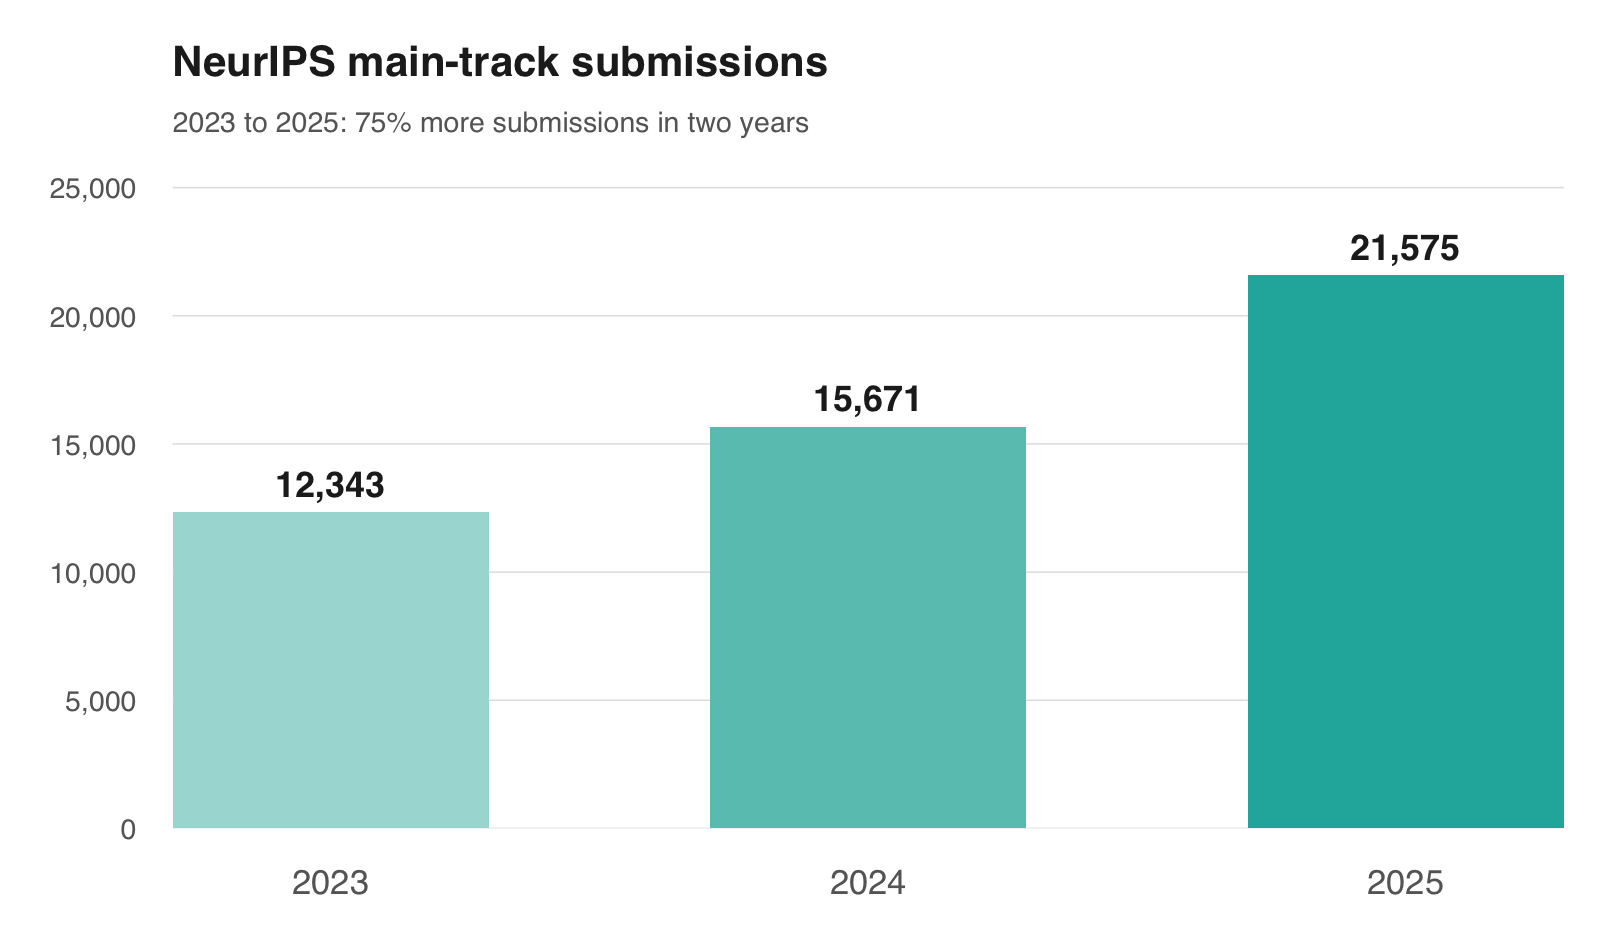
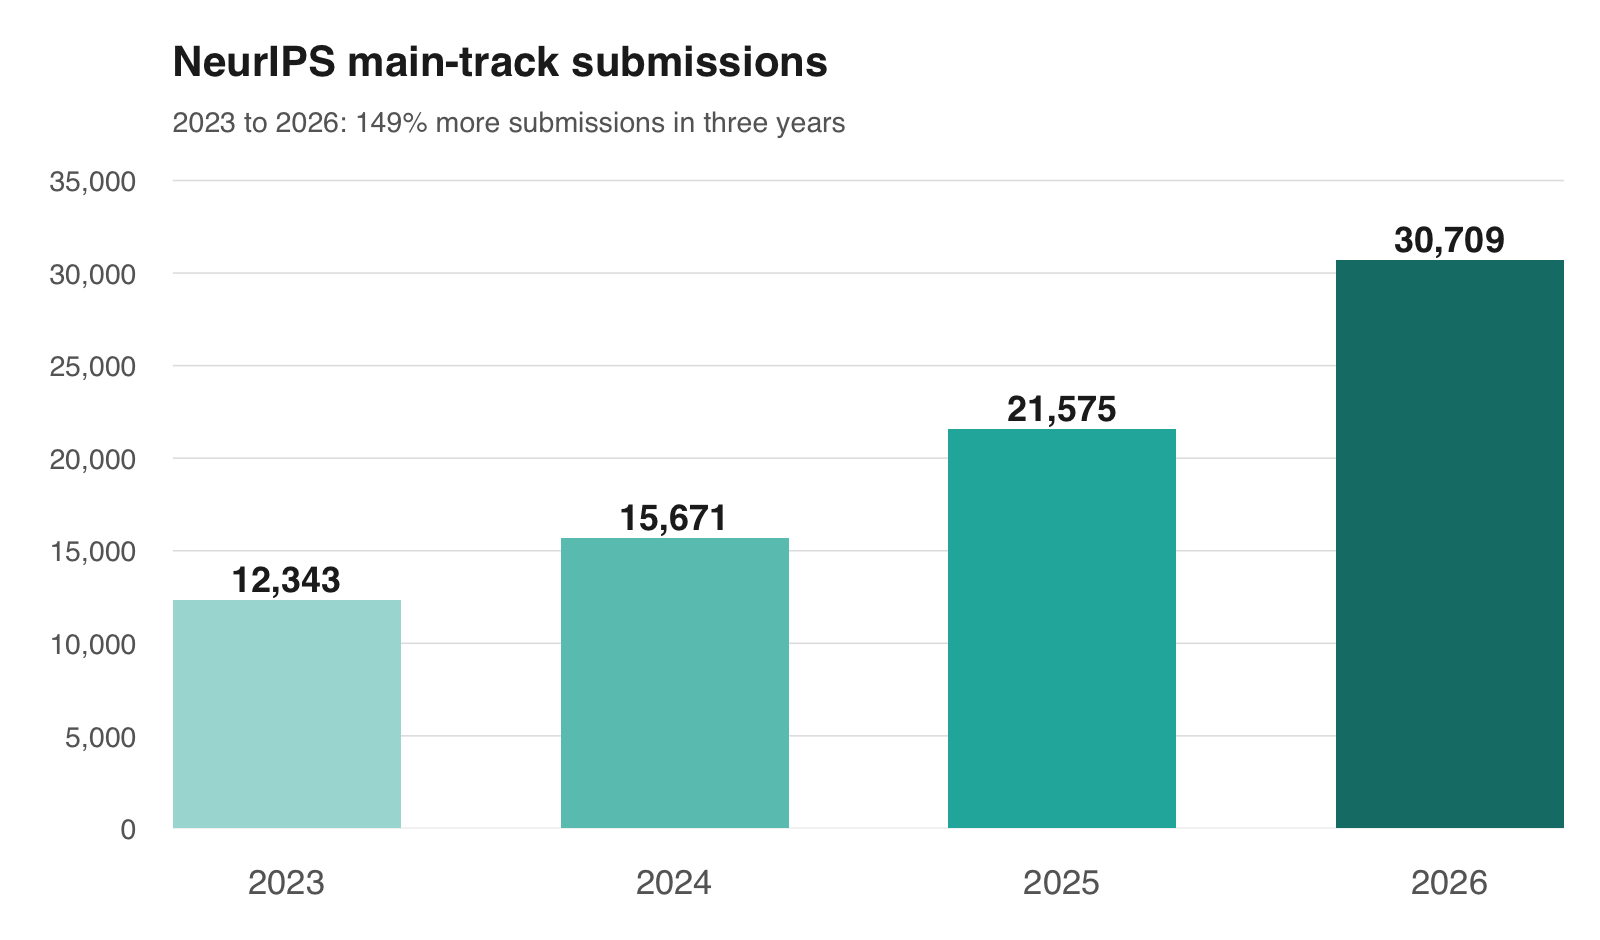
Added new data

diff --git a/_posts/2026-10-02-frontrunning-academia.md b/_posts/2026-10-02-frontrunning-academia.md
@@ -23,11 +23,13 @@ This is not a single event. Journals are similarly struggling. Data on this is s
 
 The editors of *Accountability in Research* [report](https://doi.org/10.1080/08989621.2026.2737718) that they expect more than 1,000 original submissions in 2026, compared with 160 in 2022. They describe the strain of assessing AI-written papers and have capped submissions at four per author per year.
 
-So are academic conferences. Consider NeurIPS, one of the major machine learning conferences. Its main track went from 12,343 submissions in 2023 to 21,575 in 2025, an increase of roughly 75% in two years.[^neurips] Its program chairs describe the difficulty of finding enough qualified reviewers and keeping decisions reliable at that scale. The numbers alone do not tell us how much of the growth came from AI. They do show the workload the system has to absorb.
+So are academic conferences. Consider NeurIPS, one of the major machine learning conferences. Its main track went from 12,343 submissions in 2023 to 30,709 valid submissions in 2026. Almost two and a half times as many in three years, and 42% more than in 2025.[^neurips] And this is just the main track. The 2025 program chairs already described the difficulty of finding enough qualified reviewers and keeping decisions reliable at that scale. The numbers alone do not tell us how much of the growth came from AI. They do show the workload the system has to absorb.
 
-![NeurIPS main-track submissions: 12,343 in 2023, 15,671 in 2024, and 21,575 in 2025.](../assetsPosts/2026-10-02-frontrunning-academia/neurips-submissions.png)
+![NeurIPS main-track submissions: 12,343 in 2023, 15,671 in 2024, 21,575 in 2025, and 30,709 in 2026.](../assetsPosts/2026-10-02-frontrunning-academia/neurips-submissions.png)
 
-*NeurIPS main-track paper submissions, as reported by the organizers. The 2025 figure counts valid submissions. Other conference tracks are excluded. Sources and figures: [2023 fact sheet](https://media.neurips.cc/Conferences/NeurIPS2023/NeurIPS2023-Fact_Sheet.pdf), [2024 fact sheet](https://media.neurips.cc/Conferences/NeurIPS2024/NeurIPS2024-Fact_Sheet.pdf), and [2025 program chairs' report](https://blog.neurips.cc/2025/09/30/reflections-on-the-2025-review-process-from-the-program-committee-chairs/).*
+*NeurIPS main-track paper submissions. The 2025 and 2026 figures count valid submissions. Other conference tracks are excluded. Sources: the organizers' [2023 fact sheet](https://media.neurips.cc/Conferences/NeurIPS2023/NeurIPS2023-Fact_Sheet.pdf), [2024 fact sheet](https://media.neurips.cc/Conferences/NeurIPS2024/NeurIPS2024-Fact_Sheet.pdf), and [2025 program chairs' report](https://blog.neurips.cc/2025/09/30/reflections-on-the-2025-review-process-from-the-program-committee-chairs/); for 2026, a [report from the University of Vienna's participating research group](https://dm.cs.univie.ac.at/news/story/four-papers-accepted-at-neurips-2026).*
+
+Consider the work on the other side as well. ICLR 2026 received 19,525 valid, format-compliant submissions. Its review process involved 76,139 reviews from 18,054 reviewers.[^iclr] Producing a paper is only the beginning of the work it creates for everyone else.
 
 And keep in mind, AI can also change how the research itself gets done. See math. But also see science. Philipp Zahn and Bruno Marnette recently discussed this with Markus Buehler on [Taste-Bench](https://www.taste-bench.com/podcast). His work on agents spans the research process, including protein design with experimental validation.[^markus] If these systems allow researchers to produce more substantive work, that work will still need to be assessed. Even a world with no slop would have an allocation problem.
 
@@ -131,9 +133,11 @@ What we do think is that experiences from designing decentralized systems will b
 
 # Notes
 
-[^neurips]: The NeurIPS fact sheets report [12,343 main-track submissions in 2023](https://media.neurips.cc/Conferences/NeurIPS2023/NeurIPS2023-Fact_Sheet.pdf) and [15,671 in 2024](https://media.neurips.cc/Conferences/NeurIPS2024/NeurIPS2024-Fact_Sheet.pdf). The [2025 program chairs' report](https://blog.neurips.cc/2025/09/30/reflections-on-the-2025-review-process-from-the-program-committee-chairs/) gives 21,575 valid main-track submissions and discusses the resulting pressure on reviewer recruitment and decision-making. These are the three figures plotted above.
+[^neurips]: The NeurIPS fact sheets report [12,343 main-track submissions in 2023](https://media.neurips.cc/Conferences/NeurIPS2023/NeurIPS2023-Fact_Sheet.pdf) and [15,671 in 2024](https://media.neurips.cc/Conferences/NeurIPS2024/NeurIPS2024-Fact_Sheet.pdf). The [2025 program chairs' report](https://blog.neurips.cc/2025/09/30/reflections-on-the-2025-review-process-from-the-program-committee-chairs/) gives 21,575 valid main-track submissions and discusses the pressure on reviewer recruitment and decision-making. For 2026, the [University of Vienna's research group reports](https://dm.cs.univie.ac.at/news/story/four-papers-accepted-at-neurips-2026) 30,709 valid submissions and 7,900 acceptances (25.7%). A [participating team's announcement at China University of Petroleum (East China)](https://computer.upc.edu.cn/_t272/2026/0929/c6278a501451/page.htm) corroborates these totals and the breakdown: 7,496 posters, 292 spotlights, and 112 orals. The 2026 sources are reports from participating institutions, rather than a published program chairs' retrospective. Growth from 2023 to 2026 is approximately 149%; growth from 2025 to 2026 is approximately 42%.
 
-[^markus]: Markus Buehler joins Philipp and Bruno in [*Creativity Across Disciplines, From Materials Science to Bach*](https://podcasts.apple.com/us/podcast/creativity-across-disciplines-from-materials-science/id6783881326?i=1000792427587), Taste-Bench episode 17 (30 September 2026). They discuss agent systems working across the research process. Among the work referenced in the episode is Fiona Y. Wang, Di Sheng Lee, David L. Kaplan, and Markus J. Buehler's [*Swarms of Large Language Model Agents for Protein Sequence Design with Experimental Validation*](https://arxiv.org/abs/2511.22311).
+[^iclr]: The ICLR program chairs' [*A Retrospective on the ICLR 2026 Review Process*](https://blog.iclr.cc/2026/03/31/a-retrospective-on-the-iclr-2026-review-process/) reports 19,525 valid, format-compliant submissions, 76,139 reviews, and 18,054 reviewers. These are figures for the 2026 conference, not the ICLR 2027 submission cycle taking place in autumn 2026.
+
+[^markus]: Markus Buehler joins Philipp and Bruno Marnette in [*Creativity Across Disciplines, From Materials Science to Bach*](https://podcasts.apple.com/us/podcast/creativity-across-disciplines-from-materials-science/id6783881326?i=1000792427587), on the Taste-Bench Podcast episode 17 (30 September 2026). They discuss agent systems working across the research process. Among the work referenced in the episode is Fiona Y. Wang, Di Sheng Lee, David L. Kaplan, and Markus J. Buehler's [*Swarms of Large Language Model Agents for Protein Sequence Design with Experimental Validation*](https://arxiv.org/abs/2511.22311).
 
 [^kominers]: The linked thread introduces implications of Kominers's *Moderation under Inundation: A Market Design Framework*. He says the paper is not yet ready to circulate. He also discloses having been rate-limited himself; his argument is about policy design, not a personal exemption. His objective is to allocate review where its expected benefit justifies its cost. He also raises the risk that restricting valuable, prolific contributors gives them a reason to seek other platforms.
 
